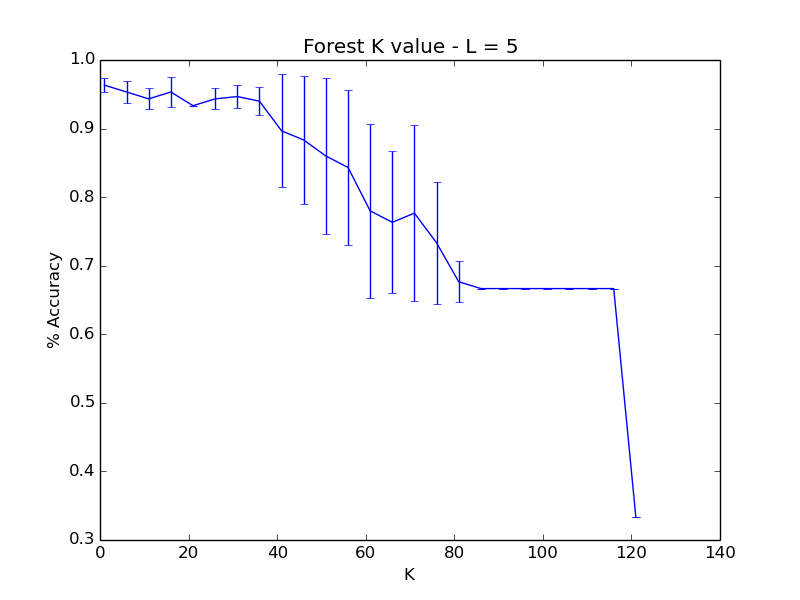
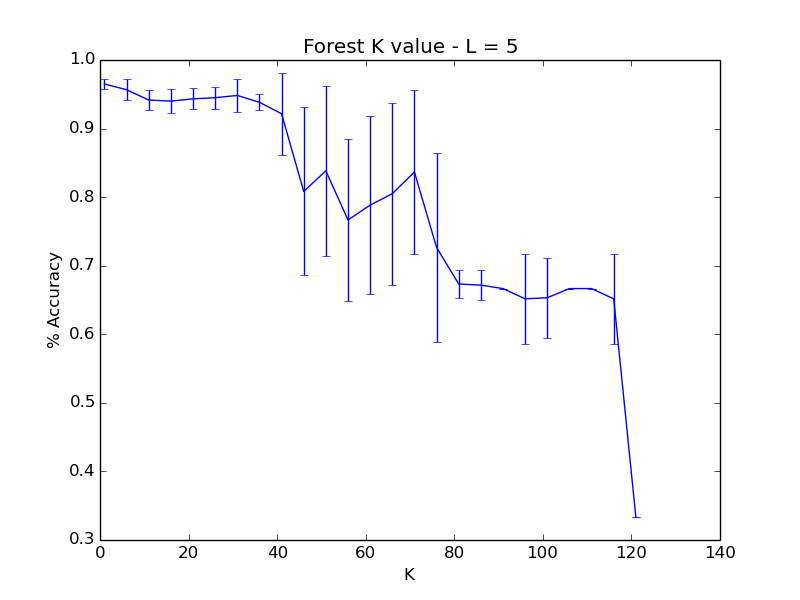
Results Images

diff --git a/Implementation 3/src/main.py b/Implementation 3/src/main.py
@@ -25,6 +25,8 @@ def main():
   plt.xlabel("K")
   plt.ylabel("% Accuracy")
   plt.savefig("../results/"+title.replace(" ", "_")+".png")
+  print "X:", x
+  print "Y:", y
   #plt.show()
 
   #Part 2
@@ -37,13 +39,16 @@ def main():
     for k in x:
       print "Tree K:", k
       res = []
-      for trial in range(10):
+      for trial in range(20):
         print "Trial:", trial
         forest = buildForest(train_data, l, k)
         accuracy = computeAccuracy(test_data, forest, predictForest)
         res.append(accuracy)
       y.append(np.mean(res))
       stdev.append(np.std(res))
+    print "X:", x
+    print "Y:", y
+    print "STDEV:", stdev
     plt.figure()
     plt.errorbar(x, y, stdev)
     title = "Forest K value - L = " + str(l)
@@ -66,21 +71,6 @@ def computeAccuracy(test_data, test_item, predictionFunction):
       incorrect += 1
 
   return correct/(correct+incorrect)
-
-
-
-
-
-  # tree = buildTree(train_data, k)
-  # printTree(tree)
-
-
-
-
-
-  #print "Tree Constructed\n"
-
-
 
 
 if __name__ == '__main__':
